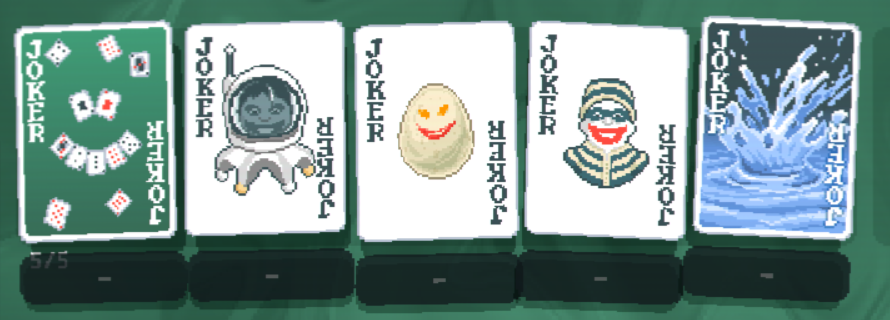
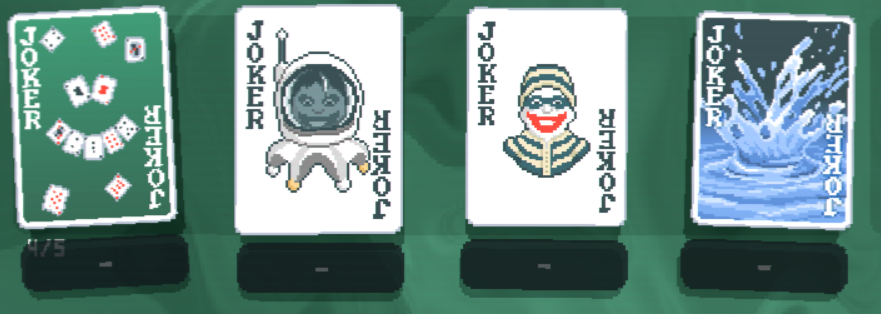
Modify Examples to reflect changes

diff --git a/examples/README.md b/examples/README.md
@@ -21,12 +21,11 @@ These Jokers don't display any infromation unless they're enhanced.
 |  |  |  |  |  |
 |     :---:      |     :---:      |     :---:      |     :---:      |     :---:      |
 | **Four Fingers** | **Mime** | **Credit Card** | **Marble Joker** | **Chaos the Clown** |
-| **Pareidolia** | **Space Joker** | **Egg** | **Burglar** | **Splash** |
+| **Pareidolia** | **Space Joker** | **Burglar** | **Splash** | |
 | **Hiker** | **Riff-raff** | **Shortcut** | **Midas Mask** | **Gift Card** |
-| **Turtle Bean** | **Hallucination** | **Juggler** | **Drunkard** | **Diet Cola** |
-| **Sock and Buskin** | **Troubadour** | **Certificate** | **Smeared Joker** | **Hanging Chad** |
-| **Merry Andy** | **Oops! All 6s** | **Cartomancer** | **Astronomer** | **Burnt Joker** |
-| **Perkeo** |  |  |  |  |
+| **Hallucination** | **Juggler** | **Drunkard** | **Diet Cola** | **Sock and Buskin** |
+| **Troubadour** | **Certificate** | **Smeared Joker** | **Hanging Chad** | **Merry Andy** |
+| **Oops! All 6s** | **Cartomancer** | **Astronomer** | **Burnt Joker** | **Perkeo** |
 
 ![Blank Joker example 1](02_blank_joker_1.png)
 ![Blank Joker example 2](02_blank_joker_2.png)
@@ -37,7 +36,6 @@ These Jokers don't display any infromation unless they're enhanced.
 
 Notes:
 
-- **Turtle Bean** could display remaining turns in the future.
 - **Burnt Joker** could display that it is active on the first hand.
 - Feel free to suggest info these could display.
 
@@ -228,6 +226,7 @@ Any other Joker that increases or decreases value over time, either permanently 
 | **Castle** | **Popcorn** | **Spare Trousers** | **Ramen** | **Lucky Cat** |
 | **Wee Joker** | **Swashbuckler** | **Throwback** | **Campfire** | **Hit the Road** |
 | **Joker Stencil** | **Satellite** | **Bootstraps** | **Canio** | **Yorick** |
+| **Egg** | **Turtle Bean** | | | |
 
 ![Variable Jokers 1](10_variable_jokers_1.png)
 ![Variable Jokers 2](10_variable_jokers_2.png)
@@ -237,6 +236,7 @@ Any other Joker that increases or decreases value over time, either permanently 
 ![Variable Jokers 6](10_variable_jokers_6.png)
 ![Variable Jokers 7](10_variable_jokers_7.png)
 ![Variable Jokers 8](10_variable_jokers_8.png)
+![Variable Jokers 9](10_variable_jokers_9.png)
 
 Notes:
 
